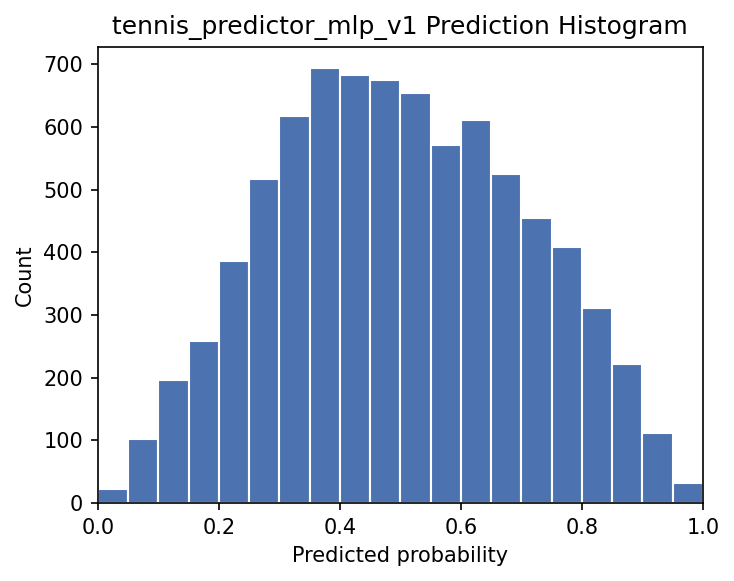
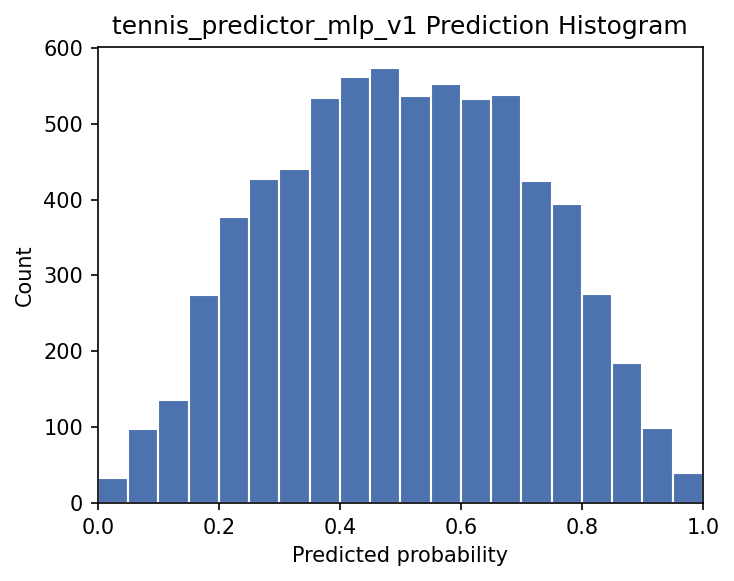
fine-tune mlp model

diff --git a/src/models/mlp.py b/src/models/mlp.py
@@ -1,4 +1,5 @@
 from typing import Optional, Self
+import copy
 
 import numpy as np
 import pandas as pd
@@ -6,24 +7,30 @@ import torch
 import torch.nn as nn
 from torch.utils.data import DataLoader, TensorDataset
 from sklearn.preprocessing import StandardScaler
+from sklearn.metrics import accuracy_score, brier_score_loss
+import joblib
 
 from src.models.model import TennisPredictorModel
 
-BATCH_SIZE = 32
-LEARNING_RATE = 1e-4
-EPOCHS = 10
+BATCH_SIZE = 256
+LEARNING_RATE = 3e-4
+EPOCHS = 250
+HIDDEN_DIMS = (128, 64, 32)
+DROPOUTS = (0.4, 0.3, 0.1)
+PATIENCE = 25
 
 
 class _MLPNetwork(nn.Module):
-    def __init__(self, input_dim: int, hidden_dims: tuple[int], dropout: float) -> None:
+    def __init__(self, input_dim: int, hidden_dims: tuple[int], dropouts: tuple[float]) -> None:
         super().__init__()
 
         layers = []
         previous_dim = input_dim
 
-        for hidden_dim in hidden_dims:
+        for dropout, hidden_dim in zip(dropouts, hidden_dims):
             layers.append(nn.Linear(previous_dim, hidden_dim))
-            layers.append(nn.ReLU())
+            layers.append(nn.BatchNorm1d(hidden_dim))
+            layers.append(nn.GELU())
             layers.append(nn.Dropout(dropout))
             previous_dim = hidden_dim
 
@@ -32,7 +39,7 @@ class _MLPNetwork(nn.Module):
         self.network = nn.Sequential(*layers)
         self.input_dim = input_dim
         self.hidden_dims = hidden_dims
-        self.dropout = dropout
+        self.dropouts = dropouts
 
     def forward(self, x: torch.Tensor) -> torch.Tensor:
         return self.network(x).squeeze(-1)
@@ -71,54 +78,72 @@ class TennisPredictorMLP(TennisPredictorModel):
         y_validation_tensor = torch.tensor(y_validation.to_numpy(dtype="float32"), dtype=torch.float32).to(self._device)
 
         # Configure neural network, loss function, and optimizer
-        self._network = _MLPNetwork(input_dim=X_train.shape[1], hidden_dims=(64, 32), dropout=0.2).to(self._device)
+        self._network = _MLPNetwork(input_dim=X_train.shape[1], hidden_dims=HIDDEN_DIMS, dropouts=DROPOUTS).to(
+            self._device
+        )
         criterion = nn.BCEWithLogitsLoss()
         optimizer = torch.optim.Adam(self._network.parameters(), lr=LEARNING_RATE)
 
-        for epoch in range(EPOCHS + 1):
+        best_validation_loss = float("inf")
+        patience_counter = 0
+        best_model_state_dict = None
+
+        for epoch in range(EPOCHS):
             # Train the model for one epoch
             self._network.train()
 
-            train_loss_sum = 0.0
-            train_correct = 0
-            train_total = 0
+            train_logits = []
+            train_targets = []
 
-            if epoch != 0:
-                for batch_features, batch_targets in dataloader:
-                    batch_features = batch_features.to(self._device)
-                    batch_targets = batch_targets.to(self._device)
-                    batch_size = batch_targets.size(dim=0)
+            for batch_features, batch_targets in dataloader:
+                batch_features = batch_features.to(self._device)
+                batch_targets = batch_targets.to(self._device)
 
-                    optimizer.zero_grad()
-                    logits = self._network(batch_features)
-                    loss = criterion(logits, batch_targets)
-                    loss.backward()
-                    optimizer.step()
+                optimizer.zero_grad()
+                logits = self._network(batch_features)
+                loss = criterion(logits, batch_targets)
+                loss.backward()
+                optimizer.step()
 
-                    train_loss_sum += loss.item() * batch_size
-                    train_correct += ((torch.sigmoid(logits) >= 0.5).float() == batch_targets).sum().item()
-                    train_total += batch_size
+                train_logits.append(logits.detach().cpu())
+                train_targets.append(batch_targets.detach().cpu())
 
-            train_loss = train_loss_sum / train_total if train_total > 0 else 0.0
-            train_accuracy = train_correct / train_total if train_total > 0 else 0.0
+            train_probabilities = torch.sigmoid(torch.cat(train_logits))
+            train_class_predictions = (train_probabilities >= 0.5).int()
+
+            train_loss = criterion(torch.cat(train_logits), torch.cat(train_targets)).item()
+            train_accuracy = accuracy_score(torch.cat(train_targets), train_class_predictions)
+            train_brier_score = brier_score_loss(torch.cat(train_targets), train_probabilities)
 
             # Evaluate the model on the validation set
             self._network.eval()
             with torch.no_grad():
-                logits = self._network(X_validation_tensor)
-                validation_loss = criterion(logits, y_validation_tensor).item()
-                validation_accuracy = (
-                    ((torch.sigmoid(logits) >= 0.5).float() == y_validation_tensor).sum().item()
-                    / y_validation_tensor.size(dim=0)
-                    if y_validation_tensor.size(dim=0) > 0
-                    else 0.0
-                )
+                validation_logits = self._network(X_validation_tensor)
+                validation_probabilities = torch.sigmoid(validation_logits).cpu().numpy()
+                validation_class_predictions = (validation_probabilities >= 0.5).astype(int)
+
+                validation_loss = criterion(validation_logits, y_validation_tensor).item()
+                validation_accuracy = accuracy_score(y_validation_tensor.cpu().numpy(), validation_class_predictions)
+                validation_brier_score = brier_score_loss(y_validation_tensor.cpu().numpy(), validation_probabilities)
 
             print(
-                f"Epoch {epoch}/{EPOCHS} | Train Loss: {train_loss:.4f} | Train Acc: {train_accuracy * 100:.1f}% | "
-                f"Val Loss: {validation_loss:.4f} | Val Acc: {validation_accuracy * 100:.1f}%"
+                f"Epoch {epoch + 1}/{EPOCHS} | ",
+                f"Train Loss: {train_loss:.4f} - Acc: {train_accuracy * 100:.1f}% - Brier: {train_brier_score:.4f} | ",
+                f"Val Loss: {validation_loss:.4f} - Acc: {validation_accuracy * 100:.1f}% - Brier: {validation_brier_score:.4f}",
             )
 
+            # Early stopping
+            if validation_loss < best_validation_loss:
+                best_validation_loss = validation_loss
+                patience_counter = 0
+                best_model_state_dict = copy.deepcopy(self._network.state_dict())
+            else:
+                patience_counter += 1
+                if patience_counter >= PATIENCE:
+                    print(f"Early stopping triggered after {epoch} epochs.")
+                    break
+
+        self._network.load_state_dict(best_model_state_dict)
         self._is_fitted = True
 
     def predict(self, X: pd.DataFrame) -> np.ndarray:
@@ -142,10 +167,10 @@ class TennisPredictorMLP(TennisPredictorModel):
             "model_state_dict": self._network.state_dict(),
             "input_dim": self._network.input_dim,
             "hidden_dims": self._network.hidden_dims,
-            "dropout": self._network.dropout,
+            "dropouts": self._network.dropouts,
         }
         torch.save(checkpoint, self.instance_dir / "model.pth")
-        torch.save(self._scaler, self.instance_dir / "scaler.pth")
+        joblib.dump(self._scaler, self.instance_dir / "scaler.joblib")
 
     @classmethod
     def load(cls, version: int = None) -> Self:
@@ -154,10 +179,10 @@ class TennisPredictorMLP(TennisPredictorModel):
         # Load the model state dictionary and scaler
         checkpoint = torch.load(model_instance.instance_dir / "model.pth")
         model_instance._network = _MLPNetwork(
-            input_dim=checkpoint["input_dim"], hidden_dims=checkpoint["hidden_dims"], dropout=checkpoint["dropout"]
+            input_dim=checkpoint["input_dim"], hidden_dims=checkpoint["hidden_dims"], dropouts=checkpoint["dropouts"]
         ).to(model_instance._device)
         model_instance._network.load_state_dict(checkpoint["model_state_dict"])
-        model_instance._scaler = torch.load(model_instance.instance_dir / "scaler.pth", weights_only=False)
+        model_instance._scaler = joblib.load(model_instance.instance_dir / "scaler.joblib")
         model_instance._is_fitted = True
 
         return model_instance

diff --git a/src/main.py b/src/main.py
@@ -38,25 +38,17 @@ if __name__ == "__main__":
     # audit_dataset(X_validation.assign(player_A_win=y_validation))
     # audit_dataset(X_test.assign(player_A_win=y_test))
 
-    print("\nTraining neural network...\n")
-    model = TennisPredictorElo()
-    model.learn(X_train, y_train, X_validation, y_validation)
-    model.save()
-    print("Finished training.")
+    # print("\nTraining neural network...\n")
+    # model = TennisPredictorMLP()
+    # model.learn(X_train, y_train, X_validation, y_validation)
+    # model.save()
+    # print("Finished training.")
 
-    # model = TennisPredictorMLP.load(version=1)
+    model = TennisPredictorMLP.load(version=1)
 
     print("\nEvaluating model...\n")
     evaluate_model(model, X_test, y_test, save_plots=False)
 
-    # TODO: Maybe add sns pairplot to visualize features and their relationships with the target variable?
-
+    # TODO: Expand test set to evaluate tournament run predictions
     # TODO: Train XGBoost model and compare with neural network and baseline model
-
-    # TODO: Step 5: Train and evaluate machine learning models
-    # 5.a Baseline model (choosing higher elo)
-    # 5.b Neural network
-    # 5.c Logistic regression
-    # 5.d Random forest
-    # 5.e XGBoost
-    # just a and b for now, will add c, d, and e in the future
+    # TODO: Maybe add sns pairplot to visualize features and their relationships with the target variable?